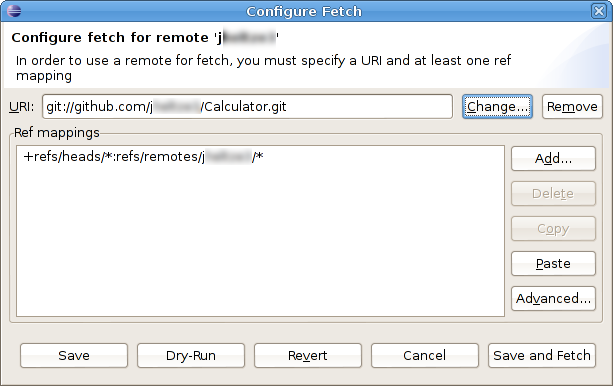
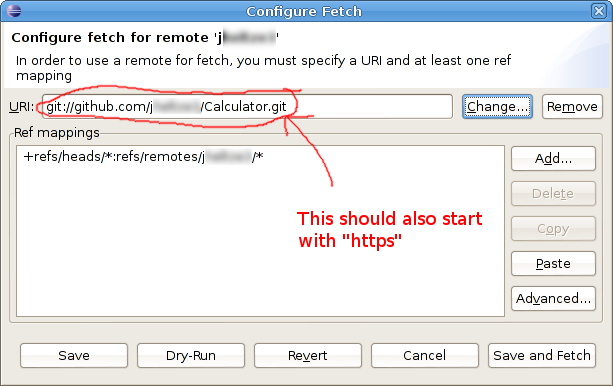
use https URLs for fetch

diff --git a/resources/fetchMerge.md b/resources/fetchMerge.md
@@ -37,7 +37,7 @@ Click **OK**. This will take you to the "Configure Fetch" dialog:
 
 > ![image](figures/configureFetch1.png)
 
-In the "Configure Fetch" dialog, click the **Change...** button. Copy the "Git Read-Only" URI of your team member's public repository, and paste it into the URI field. The dialog should look something like this:
+In the "Configure Fetch" dialog, click the **Change...** button. Copy the "HTTPS" URI of your team member's public repository, and paste it into the URI field. The dialog should look something like this:
 
 > ![image](figures/selectUri.png)
 
